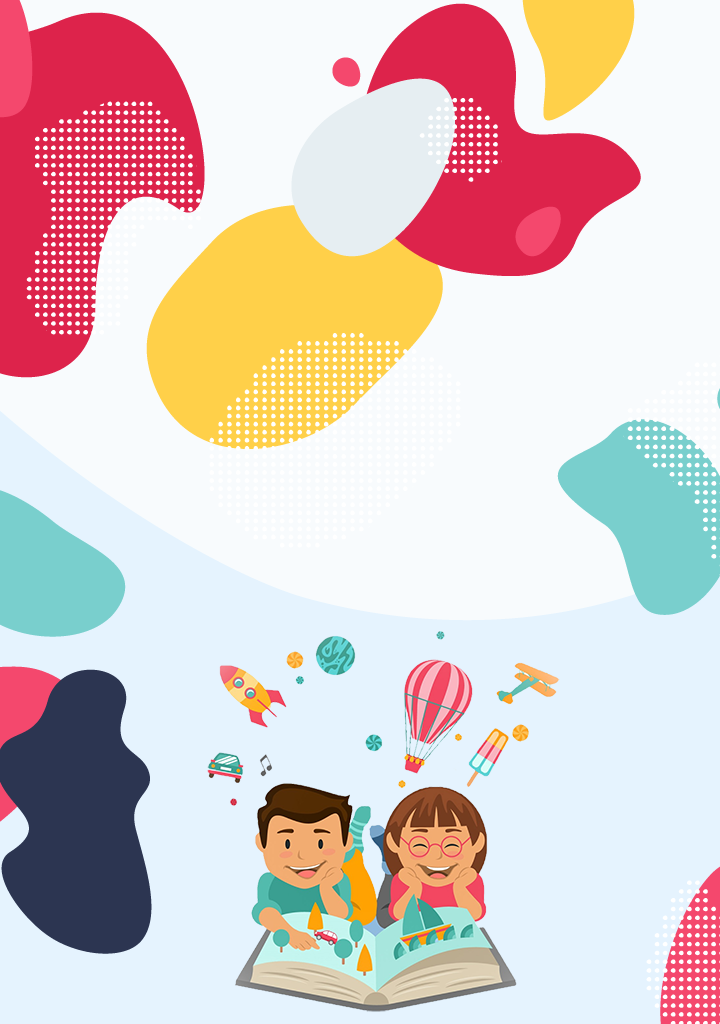
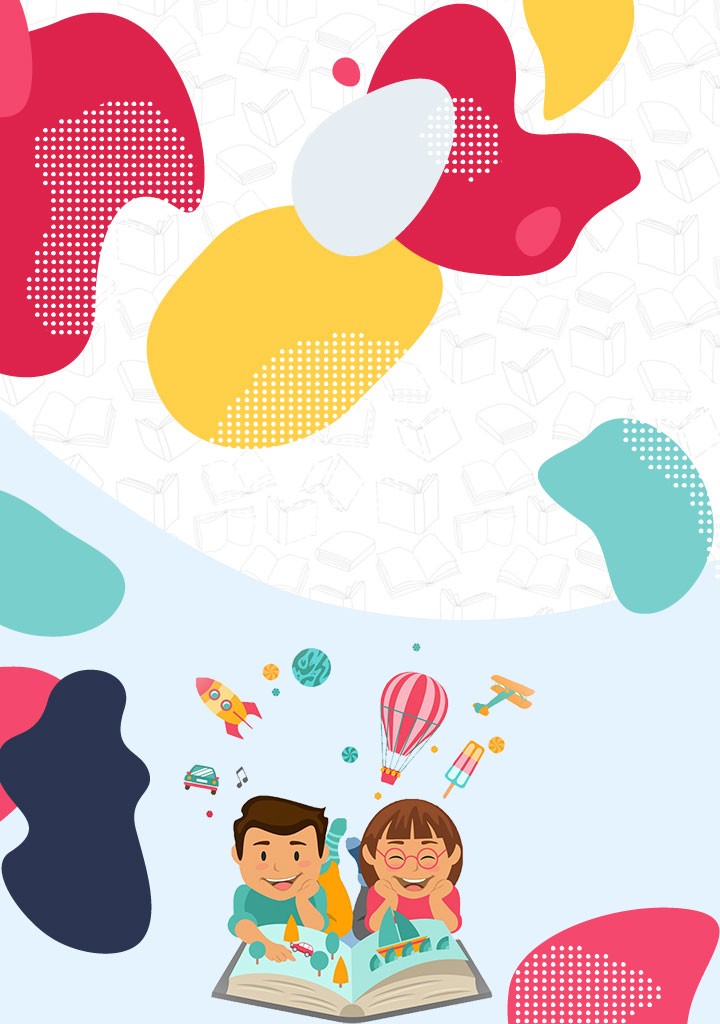
update images loin and get content by categories

diff --git a/FrontEnd/SuperReaders/src/app/components/home/home.component.html b/FrontEnd/SuperReaders/src/app/components/home/home.component.html
@@ -57,16 +57,21 @@
 
         <!-- ALL CONTENT -->
         <div class="container-fluid">
-            <div class="row text-center text-lg-left">
-                <div class="col-lg-2 col-md-2 col-6 nopad mb-1" *ngFor="let item of allContent; ;let i = index">
-                    <label class="m-0 content">
-                        <a class="d-block mb-4 h-100">
-                            <img (click)="showContent(item)" class="img-fluid img-thumbnail content-size"
-                                src="{{imgService.convertBase64ToImage(item.img)}}" alt="">
-                            <h5 class="card-title font-weight-light text-center mb-0">{{item.title}}
-                            </h5>
-                        </a>
-                    </label>
+            <div *ngFor="let category of allContent; let i = index;">
+                <div *ngIf="category.contents.length>0">
+                    <h4>{{category.name}}</h4>
+                    <div class="row text-center text-lg-left">
+                        <div class="col-lg-2 col-md-2 col-6 nopad mb-1" *ngFor="let item of category.contents">
+                            <label class="m-0 content">
+                                <a class="d-block mb-4 h-100">
+                                    <img (click)="showContent(item)" class="img-fluid img-thumbnail content-size"
+                                        src="{{imgService.convertBase64ToImage(item.img)}}" alt="">
+                                    <h5 class="card-title font-weight-light text-center mb-0">{{item.title}}
+                                    </h5>
+                                </a>
+                            </label>
+                        </div>
+                    </div>
                 </div>
             </div>
         </div>

diff --git a/FrontEnd/SuperReaders/src/app/components/home/home.component.ts b/FrontEnd/SuperReaders/src/app/components/home/home.component.ts
@@ -18,7 +18,7 @@ import { Content } from '@angular/compiler/src/render3/r3_ast';
 export class HomeComponent implements OnInit {
   currentUser: LoginResult;
   allTypeContent: TypeContent[] = [];
-  allContent: ContentFile[] = [];
+  allContent: TypeContent[] = [];
   contentPreferences: ContentFile[] = [];
   constructor(private loginService: LoginService, private router: Router, private contentService: ContentService, public imgService: ImageService, private toastr: ToastrService) { }
 
@@ -28,7 +28,7 @@ export class HomeComponent implements OnInit {
       this.contentService.getTypeContent().subscribe((res: TypeContent[]) => { this.allTypeContent = res; });
     else if (!this.currentUser.isFirstTime && this.currentUser.role == 'Student') {
       this.contentService.getAllContentByPreferenceStudent(this.currentUser.studentId).subscribe((res: ContentFile[]) => { this.contentPreferences = res; });
-      this.contentService.getAllContent().subscribe((res: ContentFile[]) => { this.allContent = res; });
+      this.contentService.getAllContentByTypeContent().subscribe((res: TypeContent[]) => { this.allContent = res; console.log(this.allContent) });
     }
   }
 
@@ -55,7 +55,7 @@ export class HomeComponent implements OnInit {
     this.contentService.createTypeContentStudent(typeContentStudent).subscribe(res => {
       this.currentUser.isFirstTime = false;
       this.loginService.setCurrentUser(this.currentUser);
-      this.contentService.getAllContent().subscribe((res: ContentFile[]) => { this.allContent = res; });
+      this.contentService.getAllContent().subscribe((res: TypeContent[]) => { this.allContent = res; });
     }, error => this.toastr.error('Ocurrio un problema al cargar tus categorias.', '¡Error!'));
   }
 

diff --git a/FrontEnd/SuperReaders/src/app/components/login/login.component.css b/FrontEnd/SuperReaders/src/app/components/login/login.component.css
@@ -1,5 +1,5 @@
 .img-center{
-    background-image: url("../../../assets/ReadersPanelRight.png");
+    background-image: url("../../../assets/ReadersPanelCenter.png");
     background-size: cover;
     background-repeat: no-repeat;
     background-position: center center;

diff --git a/FrontEnd/SuperReaders/src/app/services/content.service.ts b/FrontEnd/SuperReaders/src/app/services/content.service.ts
@@ -62,4 +62,8 @@ export class ContentService {
     return this.http.get(this.url + 'contentByPreferenceStudent/' + idStudent);
   }
 
+  getAllContentByTypeContent() {
+    return this.http.get<TypeContent[]>(this.url + 'contentByTypeContent');
+  }
+
 }

diff --git a/FrontEnd/SuperReaders/src/app/models/typeContent.ts b/FrontEnd/SuperReaders/src/app/models/typeContent.ts
@@ -1,7 +1,10 @@
+import { ContentFile } from './contentFile';
+
 export class TypeContent {
     id: number;
     idStudent: number;
     name: string;
     isSelected: Boolean;
     img: string;
+    contents?: ContentFile[];
 }
